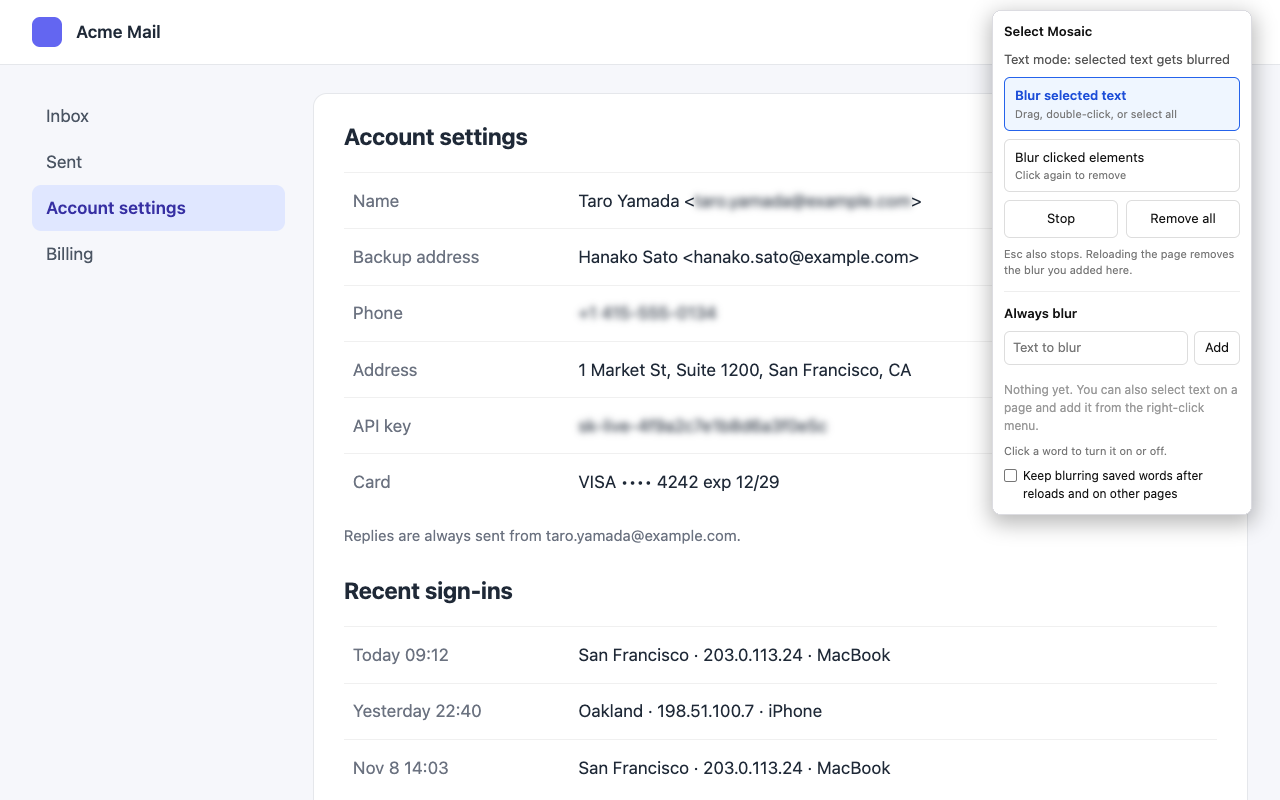
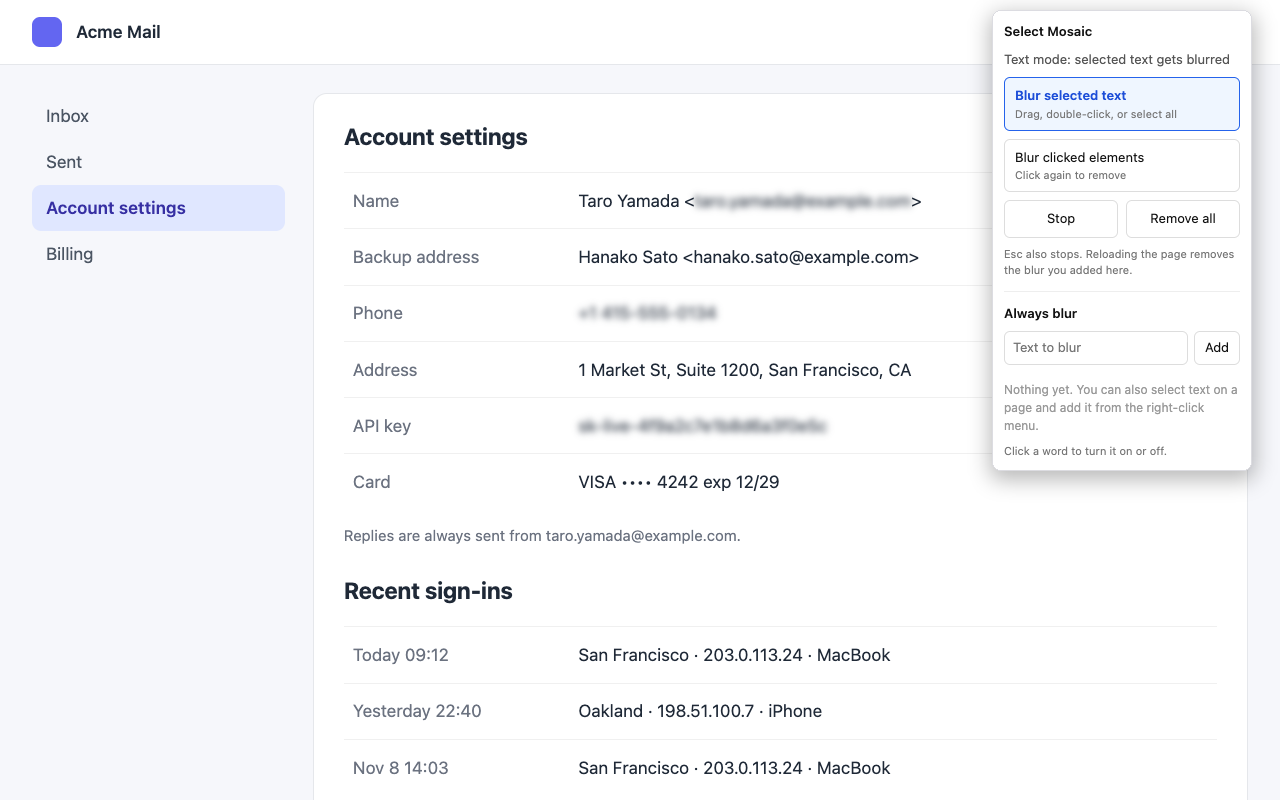
Drop optional all-sites access for the first store release
Remove the 'keep blurring' switch, its optional <all_urls> permission,
and the related strings and docs. Tracked in #2 for a later version.

Changed region(s): [[0.75, 0.5625, 1.0, 0.6875]]

diff --git a/docs/privacy.html b/docs/privacy.html
@@ -17,10 +17,10 @@
   <p>Select Mosaic does not collect, send, or sell any data.</p>
 
   <h2>What the extension stores</h2>
-  <p>The words you add to the "Always blur" list and the on/off state of the "Keep blurring" setting are saved with <code>chrome.storage.local</code> in your own browser. They never leave your device. Removing a word from the list or uninstalling the extension deletes them.</p>
+  <p>The words you add to the "Always blur" list and their on/off states are saved with <code>chrome.storage.local</code> in your own browser. They never leave your device. Removing a word from the list or uninstalling the extension deletes them.</p>
 
   <h2>What the extension reads</h2>
-  <p>To blur text, the extension reads the text of the page you are viewing inside your browser. It does this only on the tab where you opened the popup or used the right-click menu. If you turn on "Keep blurring saved words after reloads and on other pages", it does this on every page you open. The page content is never stored or sent anywhere.</p>
+  <p>To blur text, the extension reads the text of the page you are viewing inside your browser. It does this only on the tab where you opened the popup or used the right-click menu. The extension does not have access to all sites. The page content is never stored or sent anywhere.</p>
 
   <h2>Network</h2>
   <p>The extension makes no network requests. It has no analytics, ads, or remote code.</p>
@@ -35,10 +35,10 @@
   <p lang="ja">選択モザイクは、データを集めることも、外部に送ることも、売ることもありません。</p>
 
   <h2 lang="ja">拡張が保存するもの</h2>
-  <p lang="ja">「常にぼかす文字」に登録した文字と、「ぼかし続ける」設定のオンとオフは、お使いのブラウザの<code>chrome.storage.local</code>に保存します。端末の外には出ません。一覧から消すか、拡張を削除すると消えます。</p>
+  <p lang="ja">「常にぼかす文字」に登録した文字と、そのオンとオフは、お使いのブラウザの<code>chrome.storage.local</code>に保存します。端末の外には出ません。一覧から消すか、拡張を削除すると消えます。</p>
 
   <h2 lang="ja">拡張が読むもの</h2>
-  <p lang="ja">文字をぼかすために、表示しているページの文字をブラウザの中で読みます。読むのは、ポップアップを開いたタブと右クリックのメニューを使ったタブだけです。「更新やページ移動のあとも、登録した文字をぼかし続ける」をオンにした場合は、開いたすべてのページで読みます。読んだ内容は保存せず、どこにも送りません。</p>
+  <p lang="ja">文字をぼかすために、表示しているページの文字をブラウザの中で読みます。読むのは、ポップアップを開いたタブと右クリックのメニューを使ったタブだけです。すべてのサイトへのアクセス権限は持っていません。読んだ内容は保存せず、どこにも送りません。</p>
 
   <h2 lang="ja">通信</h2>
   <p lang="ja">拡張は通信をしません。アクセス解析、広告、外部から読み込むコードもありません。</p>

diff --git a/words.js b/words.js
@@ -30,24 +30,3 @@ async function removeWord(text) {
   await chrome.storage.local.set({ words });
   return words;
 }
-
-// 「ページをまたいでも続ける」: 全サイトに content.js を自動で入れる
-const PERSIST_ID = 'smz-persist';
-const ALL_URLS = { origins: ['<all_urls>'] };
-
-async function isPersistOn() {
-  const scripts = await chrome.scripting.getRegisteredContentScripts({ ids: [PERSIST_ID] });
-  return scripts.length > 0 && (await chrome.permissions.contains(ALL_URLS));
-}
-
-async function setPersist(on) {
-  const scripts = await chrome.scripting.getRegisteredContentScripts({ ids: [PERSIST_ID] });
-  if (scripts.length) await chrome.scripting.unregisterContentScripts({ ids: [PERSIST_ID] });
-  if (on) {
-    await chrome.scripting.registerContentScripts([
-      { id: PERSIST_ID, matches: ['<all_urls>'], js: ['content.js'], runAt: 'document_idle' },
-    ]);
-  } else {
-    await chrome.permissions.remove(ALL_URLS).catch(() => {}); // 外せなくても自動で入れる設定は消えている
-  }
-}

diff --git a/popup.js b/popup.js
@@ -79,26 +79,7 @@ $('add').onsubmit = async (e) => {
   $('word').value = '';
 };
 
-$('persist').onchange = async (e) => {
-  const box = e.target;
-  try {
-    if (box.checked) {
-      // 権限の確認はクリック直後に出さないと拒否されるので、先に await を挟まない
-      const granted = await chrome.permissions.request({ origins: ['<all_urls>'] });
-      if (!granted) { box.checked = false; return; }
-      await setPersist(true);
-    } else {
-      await setPersist(false);
-    }
-  } catch (err) {
-    box.checked = await isPersistOn();
-    $('error').hidden = false;
-    $('error').textContent = t('persistError') + err.message;
-  }
-};
-
 (async () => {
   renderWords(await getWords());
-  $('persist').checked = await isPersistOn();
   await initPage();
 })();

diff --git a/popup.html b/popup.html
@@ -34,8 +34,6 @@
     li .del { padding: 5px 9px; color: #777; }
     li .del:hover { color: #b91c1c; }
     #empty { color: #999; font-size: 12px; }
-    label { display: flex; gap: 6px; align-items: flex-start; font-size: 12px; cursor: pointer; }
-    label input { margin: 2px 0 0; }
   </style>
 </head>
 <body>
@@ -60,7 +58,6 @@
     <ul id="words"></ul>
     <div id="empty" data-i18n="wordsEmpty"></div>
     <p data-i18n="wordsHint"></p>
-    <label><input type="checkbox" id="persist"><span data-i18n="persist"></span></label>
   </main>
   <script src="words.js"></script>
   <script src="popup.js"></script>

diff --git a/README.md b/README.md
@@ -68,10 +68,8 @@ Gmailのように後から表示が足されるページでも、足された部
 右の×を押すと、一覧から消えます。
 一覧はブラウザを閉じても残ります。
 
-登録した文字は、ふだんはポップアップか右クリックを使ったタブにだけ当たります。
-「更新やページ移動のあとも、登録した文字をぼかし続ける」をオンにすると、どのページを開いても自動で当たります。
-オンにするときに、すべてのサイトへのアクセスを求める確認が出ます。
-オフに戻すと、自動で当てる設定とその権限を外します。
+登録した文字が当たるのは、ポップアップを開いたタブと右クリックのメニューを使ったタブです。
+ページを更新したあとや別のページでは、もう一度ポップアップを開くと当たります。
 
 ## ぼかしの強さ
 
@@ -97,9 +95,9 @@ Gmailのように後から表示が足されるページでも、足された部
 | `activeTab`、`scripting` | ポップアップか右クリックを使ったタブに、そのときだけスクリプトを入れる |
 | `storage` | 登録した文字の一覧を残す |
 | `contextMenus` | 右クリックの「常にぼかす」 |
-| `<all_urls>`（任意） | 「ぼかし続ける」をオンにしたときだけ求める |
 
-「ぼかし続ける」がオフの間は、ほかのタブやサイトは読みません。
+すべてのサイトへのアクセス権限は求めません。
+ポップアップか右クリックを使っていないタブやサイトは読みません。
 
 ## ファイル
 
@@ -108,7 +106,7 @@ Gmailのように後から表示が足されるページでも、足された部
 | `manifest.json` | 拡張の設定（Manifest V3） |
 | `popup.html`、`popup.js` | ポップアップの画面と操作 |
 | `content.js` | ページの中でぼかしをかける処理 |
-| `words.js` | 登録した文字の一覧と「ぼかし続ける」設定の読み書き |
+| `words.js` | 登録した文字の一覧の読み書き |
 | `background.js` | アイコンのバッジ、右クリックのメニュー |
 | `_locales/` | 日本語と英語の文言 |
 | `scripts/build.sh` | ストアに出すzipを`dist/`に作る |
@@ -131,14 +129,13 @@ Gmailのように後から表示が足されるページでも、足された部
 - Escで止まり、ページを更新するとぼかしが0件になる
 - 登録した文字が大文字と小文字を区別せずにぼけ、後から足した要素の中でもぼける
 - 一覧でオフにすると外れ、オンに戻すとまたぼける。×で一覧から消える
-- 「ぼかし続ける」がオフなら更新で消え、オンなら別のページと更新のあとも当たる
+- 登録した文字のぼかしは、ページを更新すると消える
 - 日本語と英語のポップアップの表示
 
 次の点はまだ確認していません。
 
 - 本物のポップアップから起動する流れ
 - 右クリックの「常にぼかす」
-- 「ぼかし続ける」をオンにしたときの権限の確認画面
 - 本物のGmailとArcでの動作
 
 テストではポップアップを押す操作ができません。

diff --git a/store/listing.md b/store/listing.md
@@ -30,7 +30,6 @@ Blur anything on a web page before you take a screenshot or share your screen.
 • Text mode: select text by dragging, double-clicking, or selecting all, and it gets blurred right away.
 • Element mode: hover to highlight an element, click to blur it, click again to remove the blur.
 • Always blur: save words such as your email address, name, or API key. Every match on the page is blurred, including content that loads later. Click a saved word to turn it on or off, or remove it from the list.
-• Keep blurring (optional): blur your saved words on every page and after reloads.
 
 Blur you add by hand disappears when you reload the page. Press Esc or Stop to end a mode.
 
@@ -52,7 +51,6 @@ Privacy: no data collection and no network requests. Your saved words stay in yo
 ・文字モード：ドラッグ、ダブルクリック、全選択で選んだ文字がすぐにぼけます。
 ・要素モード：マウスを乗せた要素が枠で囲まれ、クリックするとぼけます。もう一度クリックすると外れます。
 ・常にぼかす文字：メールアドレス、名前、APIキーなどを登録すると、ページ内で見つかった場所がすべてぼけます。後から表示された部分にも当たります。一覧の文字を押すとオンとオフが切り替わり、×で消せます。
-・ぼかし続ける（任意）：登録した文字を、更新したあとや別のページでもぼかします。
 
 手でかけたぼかしは、ページを更新すると消えます。Esc か「停止」でモードを終えます。
 
@@ -78,7 +76,6 @@ Blur text and elements on web pages so users can hide personal information befor
 | scripting | Runs the content script that wraps selected text or clicked elements and applies a CSS blur. |
 | storage | Saves the user's "Always blur" word list and its on/off states locally in chrome.storage.local. |
 | contextMenus | Adds an "Always blur" item to the right-click menu for selected text. |
-| ホスト権限（optional `<all_urls>`） | Requested only when the user turns on "Keep blurring saved words after reloads and on other pages", so saved words can be blurred automatically on every page. Off by default and can be revoked from the popup. |
 
 ### リモートコード
 

diff --git a/README.en.md b/README.en.md
@@ -31,7 +31,7 @@ Saved words are blurred wherever they appear on the page, including content that
 - Click a word in the list to turn it on or off. Click × to remove it.
 - The list stays after you close the browser.
 
-By default, saved words apply only to tabs where you opened the popup or used the menu. Turn on **Keep blurring saved words after reloads and on other pages** to apply them on every page. Chrome asks for access to all sites when you turn it on; turning it off removes that access.
+Saved words apply to tabs where you opened the popup or used the right-click menu. After a reload or on another page, open the popup again. The extension does not ask for access to all sites.
 
 ## Limitations
 
